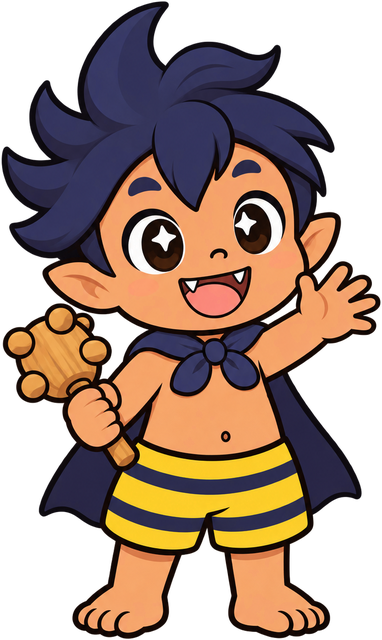
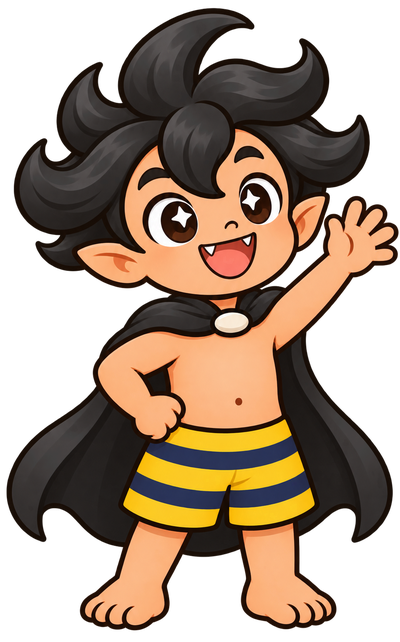
홈 화면: 깨비샘 캐릭터와 새 사이트 이름 (#73)
* 홈 화면: 깨비샘 캐릭터와 새 사이트 이름(깨비샘과 쉬는 시간)

Claude-Session: https://claude.ai/code/session_01TJDp5XNDx63cZsB8aKiCUZ

* 홈 화면: 새 로고로 교체

Claude-Session: https://claude.ai/code/session_01TJDp5XNDx63cZsB8aKiCUZ

---------

diff --git a/index.html b/index.html
@@ -6,9 +6,9 @@
 <link rel="apple-touch-icon" href="/icons/icon-180.png"/>
 <link rel="icon" type="image/png" href="/icons/icon-192.png"/>
 <link rel="manifest" href="/manifest.webmanifest"/>
-<meta name="apple-mobile-web-app-title" content="꼬비샘과 쉬는 시간"/>
+<meta name="apple-mobile-web-app-title" content="깨비샘과 쉬는 시간"/>
 <meta name="theme-color" content="#2a2860"/>
-<title>꼬비샘과 쉬는 시간</title>
+<title>깨비샘과 쉬는 시간</title>
 <link rel="preload" as="image" href="img/bg.jpg"/>
 <link href="https://fonts.googleapis.com/css2?family=Jua&display=swap" rel="stylesheet"/>
 <style>
@@ -21,7 +21,7 @@ body::before{content:"";position:fixed;inset:0;z-index:-1;pointer-events:none;
   background:linear-gradient(180deg,rgba(30,26,80,.15),rgba(30,26,80,0) 40%,rgba(30,26,80,.25)),url(img/bg.jpg) center top/cover no-repeat}
 .page{max-width:1500px;margin:0 auto;display:grid;grid-template-columns:230px minmax(0,1fr) 230px;grid-template-areas:"head head head" "char cards .";column-gap:12px;align-items:end;position:relative}
 header{grid-area:head;text-align:center;position:relative;padding:40px 0 30px}
-.logo{display:block;width:min(720px,92%);height:auto;margin:0 auto;filter:drop-shadow(0 6px 0 rgba(20,16,60,.35))}
+.logo{display:block;width:min(600px,92%);height:auto;margin:0 auto;filter:drop-shadow(0 6px 0 rgba(20,16,60,.35))}
 h1{position:absolute;width:1px;height:1px;overflow:hidden;clip:rect(0 0 0 0)}
 .sub{color:#fff;font-size:22px;margin-top:10px;text-shadow:0 2px 0 rgba(20,16,60,.6),0 0 12px rgba(20,16,60,.6);letter-spacing:.5px}
 .char{grid-area:char;align-self:end;width:100%;height:auto;margin-bottom:-6px;transform-origin:50% 100%;animation:wave 3.2s ease-in-out infinite;filter:drop-shadow(0 8px 10px rgba(10,8,40,.45))}
@@ -150,11 +150,11 @@ body.adm-edit .adm-num{display:flex}
     <img class="wisp w2" src="img/wisp.png" alt="">
     <img class="wisp w3" src="img/wisp.png" alt="">
     <img class="wisp w4" src="img/wisp.png" alt="">
-    <h1>꼬비샘과 쉬는 시간</h1>
-    <img class="logo" src="img/logo.png" alt="꼬비샘과 쉬는 시간" width="1100" height="186">
+    <h1>깨비샘과 쉬는 시간</h1>
+    <img class="logo" src="img/logo.png" alt="깨비샘과 쉬는 시간" width="1100" height="303">
     <p class="sub">쉬는 시간에 친구들과 즐겨 보세요!</p>
   </header>
-  <img class="char" src="img/ggobi-wave.png" alt="손을 흔드는 꼬비" width="382" height="640">
+  <img class="char" src="img/ggobi-wave.png" alt="손을 흔드는 깨비샘" width="400" height="642">
   <div class="grid">
     <a class="game" href="tetris/">
       <span class="adm-num"></span>
@@ -212,7 +212,7 @@ body.adm-edit .adm-num{display:flex}
     </a>
     <div class="soon">
       <span>새 게임 준비 중</span>
-      <img src="img/ggobi-peek.png" alt="" width="440" height="411">
+      <img src="img/ggobi-peek.png" alt="" width="440" height="335">
     </div>
   </div>
 </div>
@@ -244,7 +244,7 @@ body.adm-edit .adm-num{display:flex}
 })();
 </script>
 <footer class="info">
-  <span>© 꼬비샘</span>
+  <span>© 깨비샘</span>
   <a href="https://www.instagram.com/ggobilog/" target="_blank" rel="noopener"><svg viewBox="0 0 24 24" aria-hidden="true"><defs><linearGradient id="ig" x1="0" y1="1" x2="1" y2="0"><stop offset="0" stop-color="#feda75"/><stop offset=".35" stop-color="#fa7e1e"/><stop offset=".6" stop-color="#d62976"/><stop offset="1" stop-color="#4f5bd5"/></linearGradient></defs><rect x="1" y="1" width="22" height="22" rx="6.5" fill="url(#ig)"/><rect x="5.5" y="5.5" width="13" height="13" rx="4" fill="none" stroke="#fff" stroke-width="2"/><circle cx="12" cy="12" r="3.2" fill="none" stroke="#fff" stroke-width="2"/><circle cx="16.6" cy="7.4" r="1.1" fill="#fff"/></svg>ggobilog</a>
 </footer>
 <script src="audio/bgm.js"></script>

diff --git a/credit.js b/credit.js
@@ -1,4 +1,4 @@
-// 꼬비샘과 쉬는 시간 · 저작권 표시 (모든 게임 공용)
+// 깨비샘과 쉬는 시간 · 저작권 표시 (모든 게임 공용)
 // 메뉴가 보이면 맨 아래 가운데에, 게임 중에는 버튼·보드와 겹치지 않는 빈자리(쉬는 시간 버튼 옆, 아래 가운데, 아래 양쪽 끝, 위 가운데 순)를 찾아 작게 보여요.
 // 메뉴가 길어서 스크롤되면 화면에 고정하지 않고 메뉴 맨 끝에 붙여요. 밝은 안내 화면에는 data-credit="light"를 붙이면 글자색이 어두워져요.
 (() => {
@@ -10,7 +10,7 @@
     + '#kcredit.play{right:auto;bottom:auto;text-align:left;white-space:nowrap;font-size:10px;color:rgba(255,248,232,.6)}#kcredit.light{color:rgba(60,50,90,.55);text-shadow:none}@media print{#kcredit{display:none!important}}';
   document.head.appendChild(css);
   const el = document.createElement('div');
-  el.id = 'kcredit'; el.setAttribute('aria-hidden', 'true'); el.textContent = '© 꼬비샘';
+  el.id = 'kcredit'; el.setAttribute('aria-hidden', 'true'); el.textContent = '© 깨비샘';
   const shown = n => {
     if (n.checkVisibility) { if (!n.checkVisibility({ checkOpacity:true, checkVisibilityCSS:true })) return false; }
     else if (getComputedStyle(n).display === 'none') return false;

diff --git a/keynav.js b/keynav.js
@@ -1,4 +1,4 @@
-// 꼬비샘과 쉬는 시간 · 메뉴 화면 키보드 조작 (모든 게임 공용)
+// 깨비샘과 쉬는 시간 · 메뉴 화면 키보드 조작 (모든 게임 공용)
 // 방향키로 버튼을 고르고, 엔터나 스페이스로 눌러요.
 // 첫 화면·설정 창·결과 창처럼 메뉴가 보일 때만 움직이고, 게임 중에는 아무것도 하지 않아요.
 (() => {

diff --git a/audio/bgm.js b/audio/bgm.js
@@ -1,4 +1,4 @@
-// 꼬비샘과 쉬는 시간: 게임 공용 배경 음악
+// 깨비샘과 쉬는 시간: 게임 공용 배경 음악
 // 사용법: KBGM.init({ key:'tetris', tracks:{ play:'audio/bgm-play.mp3' } })
 //   KBGM.full()   게임 중 (원래 크기)
 //   KBGM.calm()   시작 화면, 일시정지, 결과 화면 (작게)
